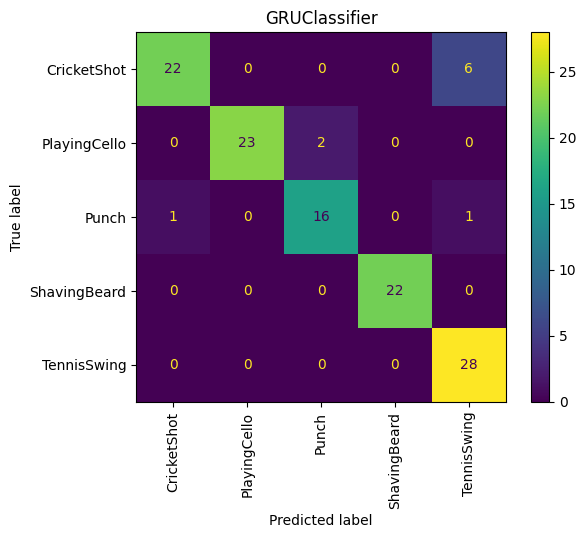
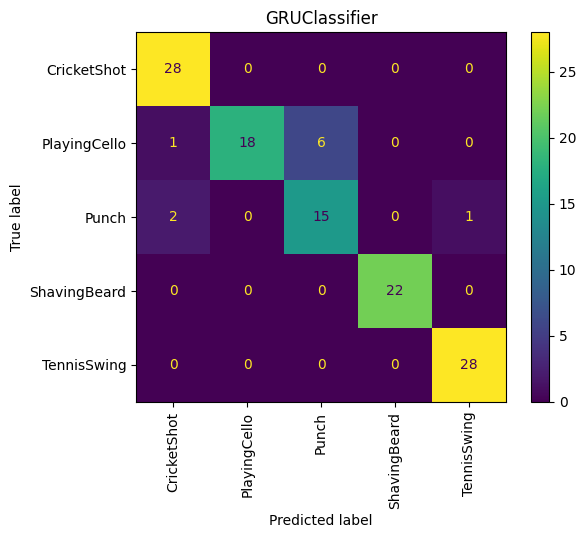
Added seed_everything for reproducibility

diff --git a/lab4/main.py b/lab4/main.py
@@ -55,7 +55,7 @@ class Ucf101(Dataset):
         self.class_names, ys = np.unique(csv_['tag'], return_inverse=True)
         self.ys = torch.as_tensor(ys)
         
-        # Move the transform to gpu, if it's Module.
+        # Move the transform to gpu, if it is a Module.
         if isinstance(self.transform, nn.Module):
             self.device = torch.device('cuda:0' if cuda else 'cpu')
             self.transform.to(self.device)
@@ -370,7 +370,7 @@ def train_evaluate(trainer, model, loader_train, loader_val, loader_test, class_
     
 def train_evaluate_rnn(
     dataset_train, dataset_val, dataset_test,
-    max_epochs=300, patience=30, lr=1e-3, output_dir='output/rnn'
+    max_epochs=300, patience=50, lr=1e-3, output_dir='output/rnn'
 ):
     loader_train_rnn = DataLoader(
         dataset_train, shuffle=True, collate_fn=rnn_collate_fn,
@@ -411,10 +411,9 @@ def train_evaluate_rnn(
     )
 
 
-
 def train_evaluate_transformer(
     dataset_train, dataset_val, dataset_test,
-    max_epochs=300, patience=30, lr=1e-3, output_dir='output/transformer'
+    max_epochs=300, patience=50, lr=1e-3, output_dir='output/transformer'
 ):
     loader_train_transformer = DataLoader(
         dataset_train, shuffle=True, collate_fn=transformer_collate_fn,
@@ -458,7 +457,9 @@ def train_evaluate_transformer(
     
 
 def main():
+    pl.utilities.seed.seed_everything(42)
     data_root_dir = 'data'
+    
     cache_all(data_root_dir)
     transform = None  # Hack to save some memory. Requires cache_all(root_dir),
 
@@ -479,5 +480,3 @@ def main():
     
 if __name__ == '__main__':
     main()
-
-# %%
